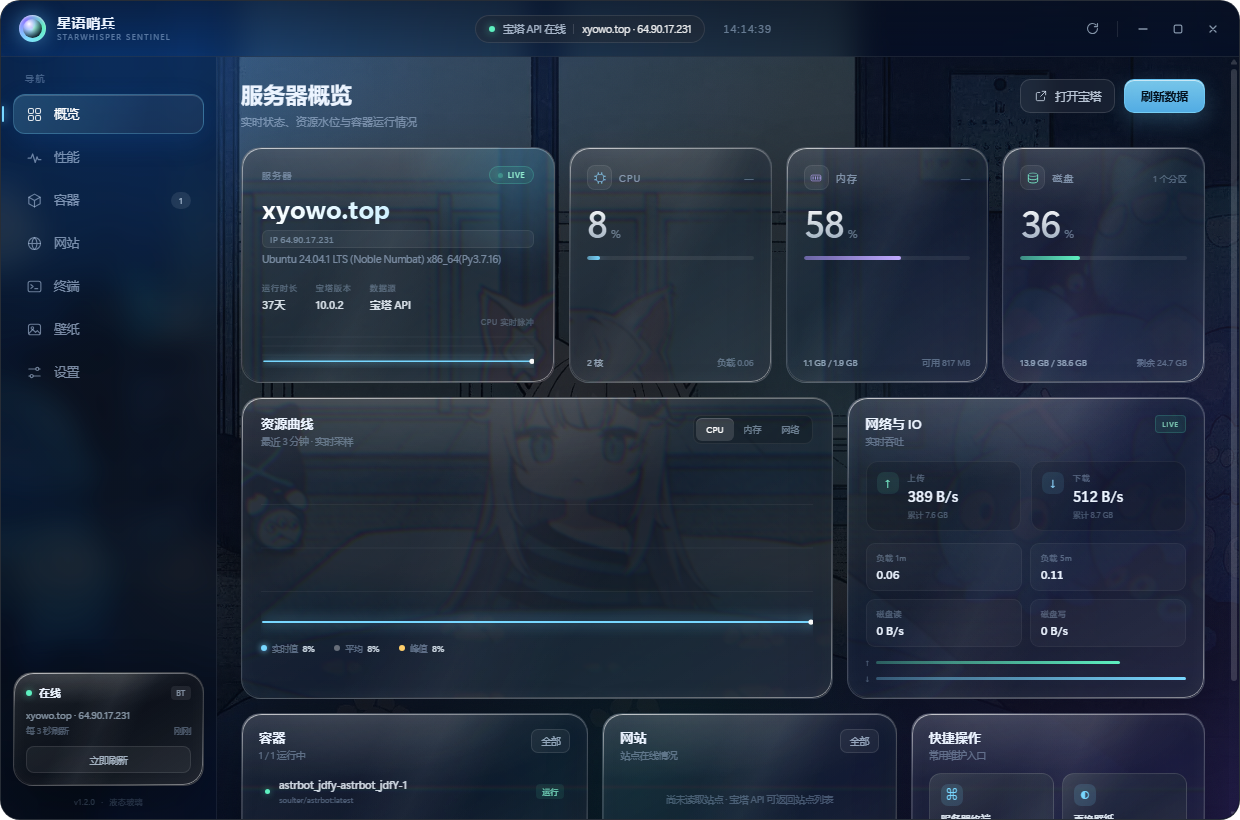
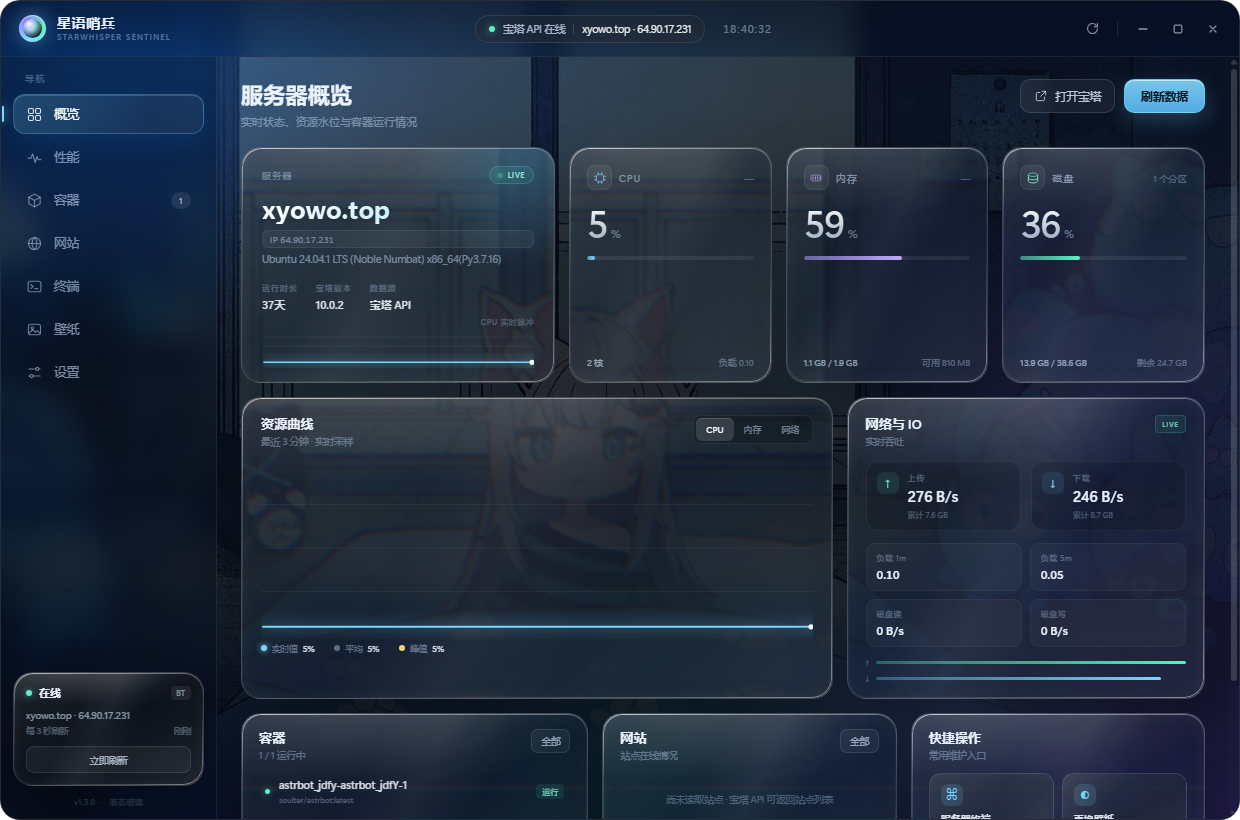
docs: refresh screenshots and add download section for v1.3.0

diff --git a/README.md b/README.md
@@ -6,6 +6,7 @@
 ![概览](docs/screenshots/dashboard.png)
 ![悬浮窗](docs/screenshots/widget.png)
 ![迷你悬浮窗](docs/screenshots/widget-mini.png)
+![设置与加密](docs/screenshots/settings.png)
 
 > 作者：DeepSeek Harness Agent（AI 编程助手，DeepSeek Harness）
 > 许可：MIT（见 [LICENSE](LICENSE)）
@@ -33,6 +34,11 @@
 - **关闭行为可控（v1.2）**：关闭主面板可选「最小化到托盘 / 直接退出 / 每次询问」；可设置关到托盘时弹**提醒**（内容可选托盘 / 悬浮窗 / 退出，或自定义文案），另有「不再提醒」；也有「关闭并退出程序」按钮。
 - **设置全部加密（v1.3）**：所有用户输入（面板地址、API 密钥、SSH 主机/端口/账号/密码/私钥路径、壁纸路径等）整体序列化后加密写入 `settings.json` —— 优先 Windows DPAPI（safeStorage），系统不支持时退到 AES-256-GCM + 本地随机密钥；磁盘与仓库里都不存在明文，并用 `icacls` 把设置文件与密钥文件限制为当前用户可读。
 - **托盘常驻**：托盘菜单可打开主面板、显示/隐藏悬浮窗、切换悬浮窗尺寸（标准/迷你）、立即刷新、打开壁纸/设置、退出。
+
+## 下载
+
+免安装：到 [Releases](https://github.com/furxingyu-star/server-monitor-tool/releases) 下载 `StarSentinel.exe` 直接运行。
+首次启动是演示模式，到 **设置** 里填宝塔 API 或 SSH 就能接上你自己的服务器。
 
 ## 快速开始
 
